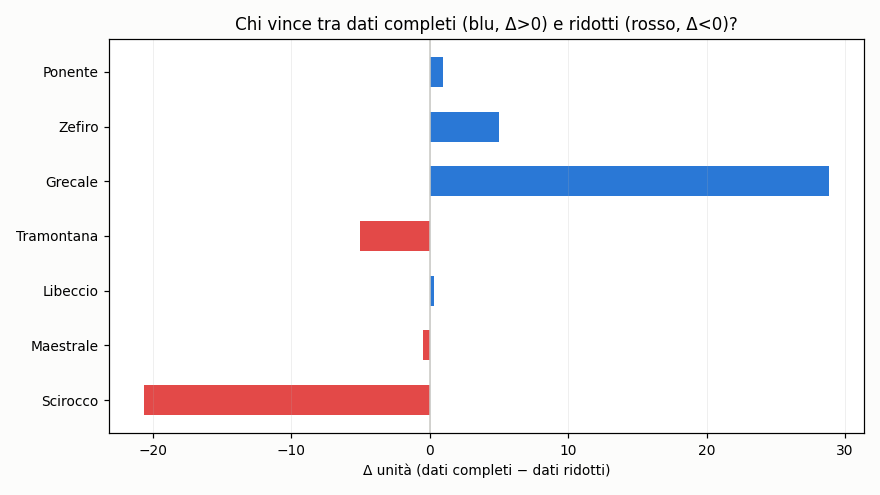
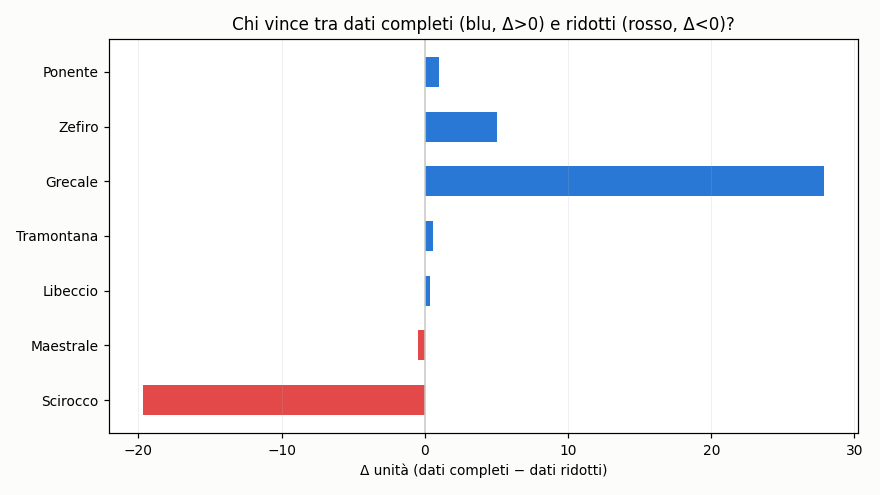
aggiornamento 2026-07-27 14:11 UTC

diff --git a/README.md b/README.md
@@ -37,9 +37,9 @@ scala in unità). Non indichiamo quale.
 
 ## Grafici
 
-![Coppie: dati completi vs ridotti](https://raw.githubusercontent.com/Kitem19/ippica-track-record/main/charts/equity_pairs.png?v=38508c3c)
+![Coppie: dati completi vs ridotti](https://raw.githubusercontent.com/Kitem19/ippica-track-record/main/charts/equity_pairs.png?v=3a090758)
 
-![Delta per coppia](https://raw.githubusercontent.com/Kitem19/ippica-track-record/main/charts/coppie_delta.png?v=3fa39c68)
+![Delta per coppia](https://raw.githubusercontent.com/Kitem19/ippica-track-record/main/charts/coppie_delta.png?v=757a4c42)
 
 ### Come leggere i grafici
 
@@ -56,11 +56,11 @@ scala in unità). Non indichiamo quale.
 
 _Poche giornate: numeri ancora rumorosi, si conclude a fine fase (31/7)._
 
-- **Scirocco**: dati ridotti avanti di 20,7u — qui gli extra non aiutano
+- **Scirocco**: dati ridotti avanti di 19,7u — qui gli extra non aiutano
 - **Maestrale**: in sostanziale pareggio — troppo presto per dire
 - **Libeccio**: in sostanziale pareggio — troppo presto per dire
-- **Tramontana**: dati ridotti avanti di 5,0u — qui gli extra non aiutano
-- **Grecale**: dati completi avanti di 28,9u
+- **Tramontana**: in sostanziale pareggio — troppo presto per dire
+- **Grecale**: dati completi avanti di 27,9u
 - **Zefiro**: dati completi avanti di 5,0u
 - **Ponente**: in sostanziale pareggio — troppo presto per dire
 
@@ -68,22 +68,22 @@ _Poche giornate: numeri ancora rumorosi, si conclude a fine fase (31/7)._
 
 | Sistema | Cassa (u) | P/L (u) | Selezioni | Escluse | Stato |
 |---|---|---|---|---|---|
-| Grecale | 28,6 | +8,6 | 303 | 4 | 🟢 |
-| Scirocco-B | 20,6 | +0,6 | 239 | 0 | 🟢 |
-| Tramontana-B | 4,7 | -15,3 | 324 | 12 | 🟢 |
+| Grecale | 27,6 | +7,6 | 304 | 4 | 🟢 |
+| Scirocco-B | 19,6 | -0,4 | 240 | 0 | 🟢 |
 | Zefiro | 4,6 | -15,4 | 263 | 8 | 🟢 |
 | Ponente | 0,0 | -20,0 | 211 | 28 | 🟢 |
-| Maestrale-B | 0,0 | -20,0 | 100 | 236 | 🛑 |
-| Scirocco | 0,0 | -20,1 | 80 | 264 | 🛑 |
+| Maestrale-B | 0,0 | -20,0 | 100 | 237 | 🛑 |
+| Scirocco | 0,0 | -20,1 | 80 | 265 | 🛑 |
 | Grecale-B | 0,0 | -20,2 | 137 | 173 | 🛑 |
-| Tramontana | 0,0 | -20,3 | 45 | 307 | 🛑 |
-| Zefiro-B | 0,0 | -20,5 | 143 | 71 | 🛑 |
-| Maestrale | 0,0 | -20,5 | 104 | 256 | 🛑 |
-| Libeccio | 0,0 | -20,6 | 181 | 165 | 🛑 |
+| Tramontana | 0,0 | -20,3 | 45 | 308 | 🛑 |
+| Zefiro-B | 0,0 | -20,5 | 143 | 72 | 🛑 |
+| Maestrale | 0,0 | -20,5 | 104 | 257 | 🛑 |
+| Libeccio | 0,0 | -20,6 | 181 | 166 | 🛑 |
+| Tramontana-B | 0,0 | -20,8 | 324 | 13 | 🛑 |
 | Libeccio-B | 0,0 | -20,9 | 119 | 180 | 🛑 |
 | Ponente-B | 0,0 | -21,0 | 63 | 85 | 🛑 |
 
-_Aggiornato: 27/07 16:06_
+_Aggiornato: 27/07 16:11_
 ---
 *Nessuna delle informazioni qui pubblicate costituisce consiglio di gioco.
 Il gioco può causare dipendenza — 18+.*
